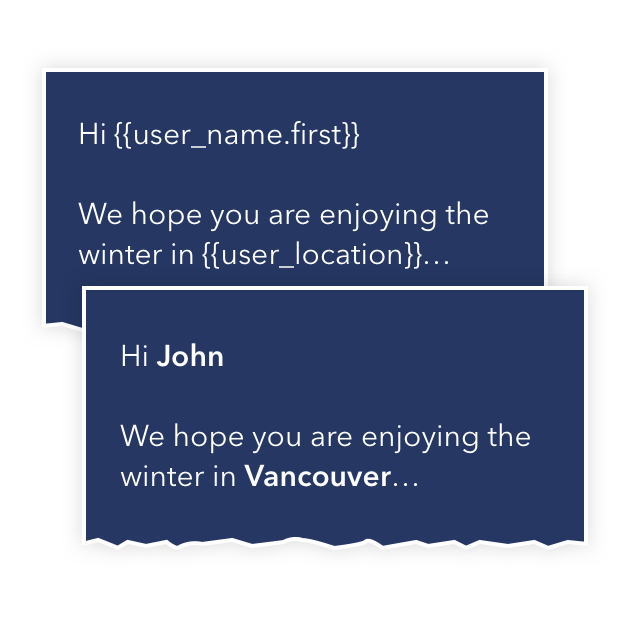
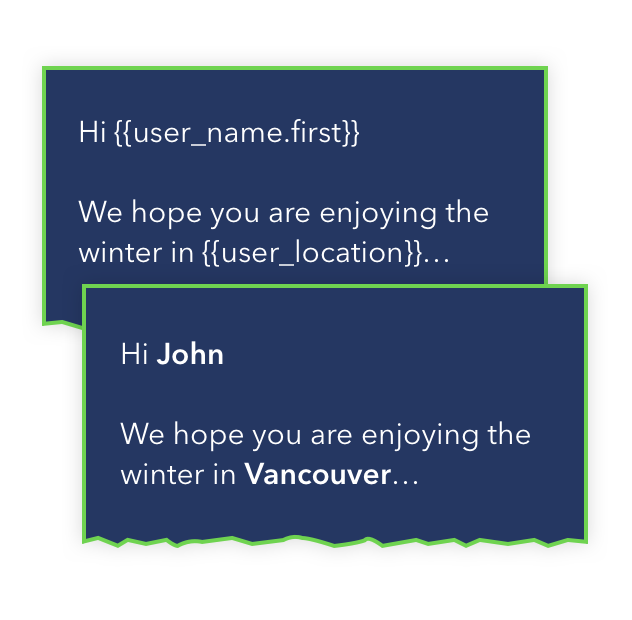
newer email page template images

diff --git a/page-features-email.php b/page-features-email.php
@@ -58,17 +58,17 @@
     <h2>Everything your team needs to collaborate and create a consistent message, look and feel for every email</h1>
     <ul class="unstyled-list inline-list feature-list thirds">
       <li>
-        <img src="/wp-content/themes/vero/assets/images/home/features/email/email-templates.png" srcset="/wp-content/themes/vero/assets/images/home/features/email/email-templates2@2x.png 2x" />
+        <img src="/wp-content/themes/vero/assets/images/home/features/email/email-templates2.png" srcset="/wp-content/themes/vero/assets/images/home/features/email/email-templates2@2x.png 2x" />
         <h4 class="feature-title">All your templates in one place</h4>
         <p class="feature-desc">Upload your fully responsive email designs to your <strong>Template Gallery</strong> and use them in all your Newsletter, Behavioral and Transactional emails.</p>
       </li>
       <li>
-        <img src="/wp-content/themes/vero/assets/images/home/features/email/email-liquid.png" srcset="/wp-content/themes/vero/assets/images/home/features/email/email-liquid2@2x.png 2x" />
+        <img src="/wp-content/themes/vero/assets/images/home/features/email/email-liquid2.png" srcset="/wp-content/themes/vero/assets/images/home/features/email/email-liquid2@2x.png 2x" />
         <h4 class="feature-title">Personalize emails with Liquid</h4>
         <p class="feature-desc">With <strong>Liquid Tags</strong> you can personalise every email by dynamically adding  customer properties.</p>
       </li>
       <li>
-        <img src="/wp-content/themes/vero/assets/images/home/features/email/email-editable.png" srcset="/wp-content/themes/vero/assets/images/home/features/email/email-editable2@2x.png 2x" />
+        <img src="/wp-content/themes/vero/assets/images/home/features/email/email-editable2.png" srcset="/wp-content/themes/vero/assets/images/home/features/email/email-editable2@2x.png 2x" />
         <h4 class="feature-title">Easily edit template content</h4>
         <p class="feature-desc">Setup your emails to use <strong>Editable Tags</strong> and the whole team can edit email content without touching the HTML.</p>
       </li>
